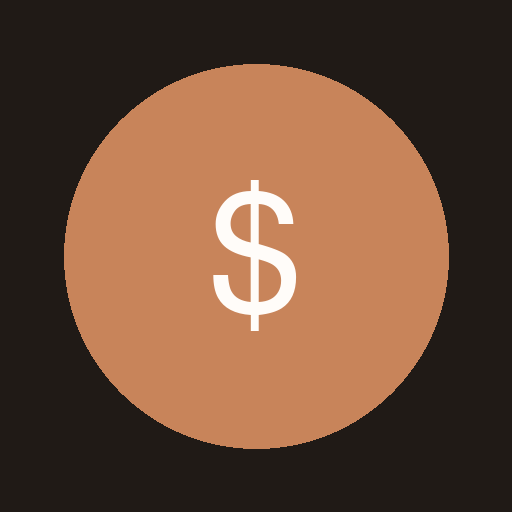
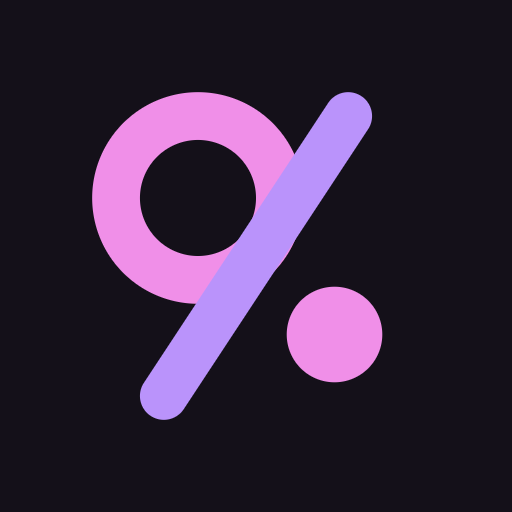
feat(pwa): nuevo diseño de ícono de home screen
Reemplaza el ícono $ terracota por un símbolo % en rosa/violeta sobre
fondo oscuro (#141019), diseño provisto por el usuario. Actualiza
theme_color/background_color del manifest y el meta theme-color para
que coincidan con el nuevo fondo — que además coincide con el --bg
real del tema oscuro de la app.

diff --git a/index.html b/index.html
@@ -10,7 +10,7 @@
 <link rel="preconnect" href="https://fonts.gstatic.com" crossorigin>
 <link href="https://fonts.googleapis.com/css2?family=Schibsted+Grotesk:wght@400;500;600;700;800&family=Hanken+Grotesk:wght@400;500;600;700&display=swap" rel="stylesheet">
 <link rel="manifest" href="/manifest.json">
-<meta name="theme-color" content="#201A16">
+<meta name="theme-color" content="#141019">
 <meta name="mobile-web-app-capable" content="yes">
 <meta name="apple-mobile-web-app-capable" content="yes">
 <meta name="apple-mobile-web-app-status-bar-style" content="black-translucent">

diff --git a/src/index.template.html b/src/index.template.html
@@ -10,7 +10,7 @@
 <link rel="preconnect" href="https://fonts.gstatic.com" crossorigin>
 <link href="https://fonts.googleapis.com/css2?family=Schibsted+Grotesk:wght@400;500;600;700;800&family=Hanken+Grotesk:wght@400;500;600;700&display=swap" rel="stylesheet">
 <link rel="manifest" href="/manifest.json">
-<meta name="theme-color" content="#201A16">
+<meta name="theme-color" content="#141019">
 <meta name="mobile-web-app-capable" content="yes">
 <meta name="apple-mobile-web-app-capable" content="yes">
 <meta name="apple-mobile-web-app-status-bar-style" content="black-translucent">